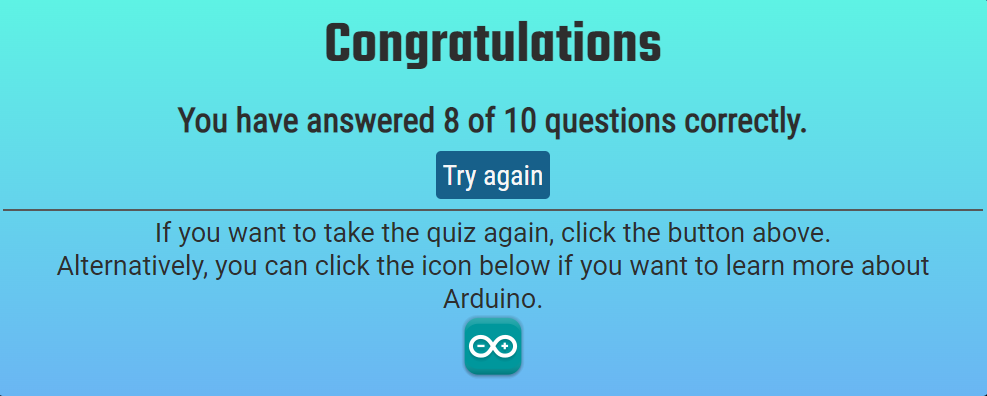
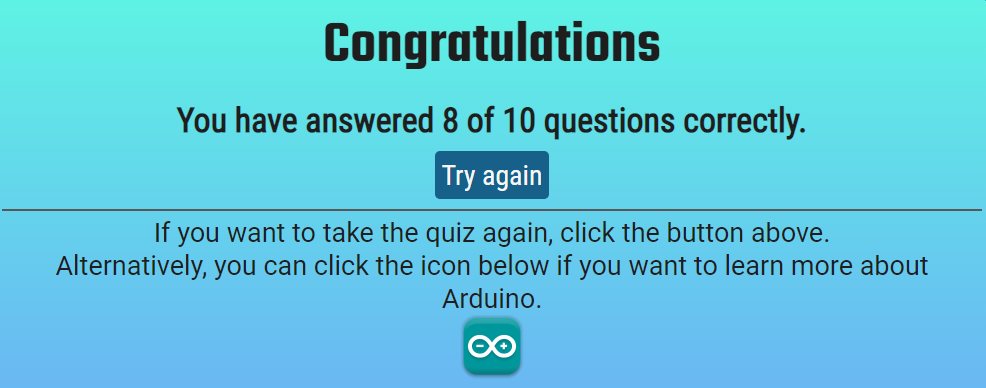
Code reviewed in style.css and minor corrections were completed

Changed region(s): [[0.0, 0.2474, 1.0, 0.9897], [0.3347, 0.0619, 0.6694, 0.1856]]

diff --git a/assets/css/style.css b/assets/css/style.css
@@ -1,7 +1,6 @@
 @import url('https://fonts.googleapis.com/css2?family=Roboto&family=Roboto+Condensed&family=Teko:wght@600&display=swap');
 
 /*General settings*/
-
 :root {
     --primary-text-color: #1e1e1e;
     --gradient-color-top: #5ef3e4;
@@ -9,7 +8,7 @@
     --button-backgroung-color: #17608a;
     --button-text-color: #f7f7f7;
     --input-field-background-color: #fafafa;
-    --playername-background-color: rgba(206, 207, 226, 0.494);
+    --player-name-background-color: #cecfe27e;
     --border-color: #333;
     --button-hover-shadow-color: #31646d99;
     --border-top-color: #585858;
@@ -94,13 +93,11 @@
     border-radius: 0.5rem;
   }
 
- /*Home section styles*/ 
+ /*Welcome section and quiz rules*/ 
   .quiz-name {
     font-size: 6rem;
   }
-      
-  /*Home section styles*/ 
-
+ 
   #list-of-rules {
     list-style-type: none;
     padding: 2rem;
@@ -138,13 +135,13 @@
   margin: 0.5rem;
   font-family: "Roboto Condensed", sans-serif;
 }
-
+/*
 input {
   background-color: var(--input-field-background-color);
 }
-
+*/
 input#playername {
-  background-color: var(--playername-background-color);
+  background-color: var(--player-name-background-color);
   height: 3.5rem;
   border-radius: 0.5rem;
   font-size: 2.5rem;
@@ -173,7 +170,6 @@ button:hover {
 /*Score area*/
 #score-area {
   flex-direction: column;
-  /*justify-content: space-around;*/
   font-size: 1.8rem;
   border-top: 2px solid var(--border-top-color);
   align-items: center;
@@ -184,7 +180,8 @@ button:hover {
   padding: 0.3rem;
 }
 
-#arduino-information {
+/*Quiz summary*/
+#quiz-summary-information {
   justify-content: space-around;
   font-size: 2rem;
   border-top: 2px solid var(--border-top-color);
@@ -197,7 +194,7 @@ button:hover {
   width: auto;
 }
 
-  /*Background video*/
+/*Background video*/
   #background-video {
     position: fixed;
     right: 0;
@@ -208,6 +205,7 @@ button:hover {
     overflow: hidden;
   }
 
+/*Media queries*/  
 @media screen and (min-width: 600px) {
   .quiz-name {
     font-size: 5rem;
@@ -280,7 +278,7 @@ button:hover {
     transform: scale(0.8);
   }
 
-  #arduino-information {
+  #quiz-summary-information {
     font-size: 1.7rem;
     padding: 0.5rem;
     margin: 0.5rem;
@@ -358,7 +356,7 @@ button:hover {
     transform: scale(0.9);
   }
 
-  #arduino-information {
+  #quiz-summary-information {
     font-size: 2.3rem;
   }
 }
@@ -419,7 +417,7 @@ button:hover {
       transform: scale(1);
     }
   
-    #arduino-information {
+    #quiz-summary-information {
       font-size: 2.7rem;
     }
   }

diff --git a/index.html b/index.html
@@ -95,7 +95,7 @@
                 <div id="quiz-summary">
                     <h2>Quiz Score</h2>
                 </div>
-                <div id="arduino-information">
+                <div id="quiz-summary-information">
                     <p>If you want to take the quiz again, click the button above.</p>
                     <p>Alternatively, you can click the icon below if you want to learn more about Arduino.</p>
                     <a href="https://www.arduino.cc" title="Official Arduino website" target="_blank" rel="noopener"><img src="assets/images/arduino-icon.png" 
